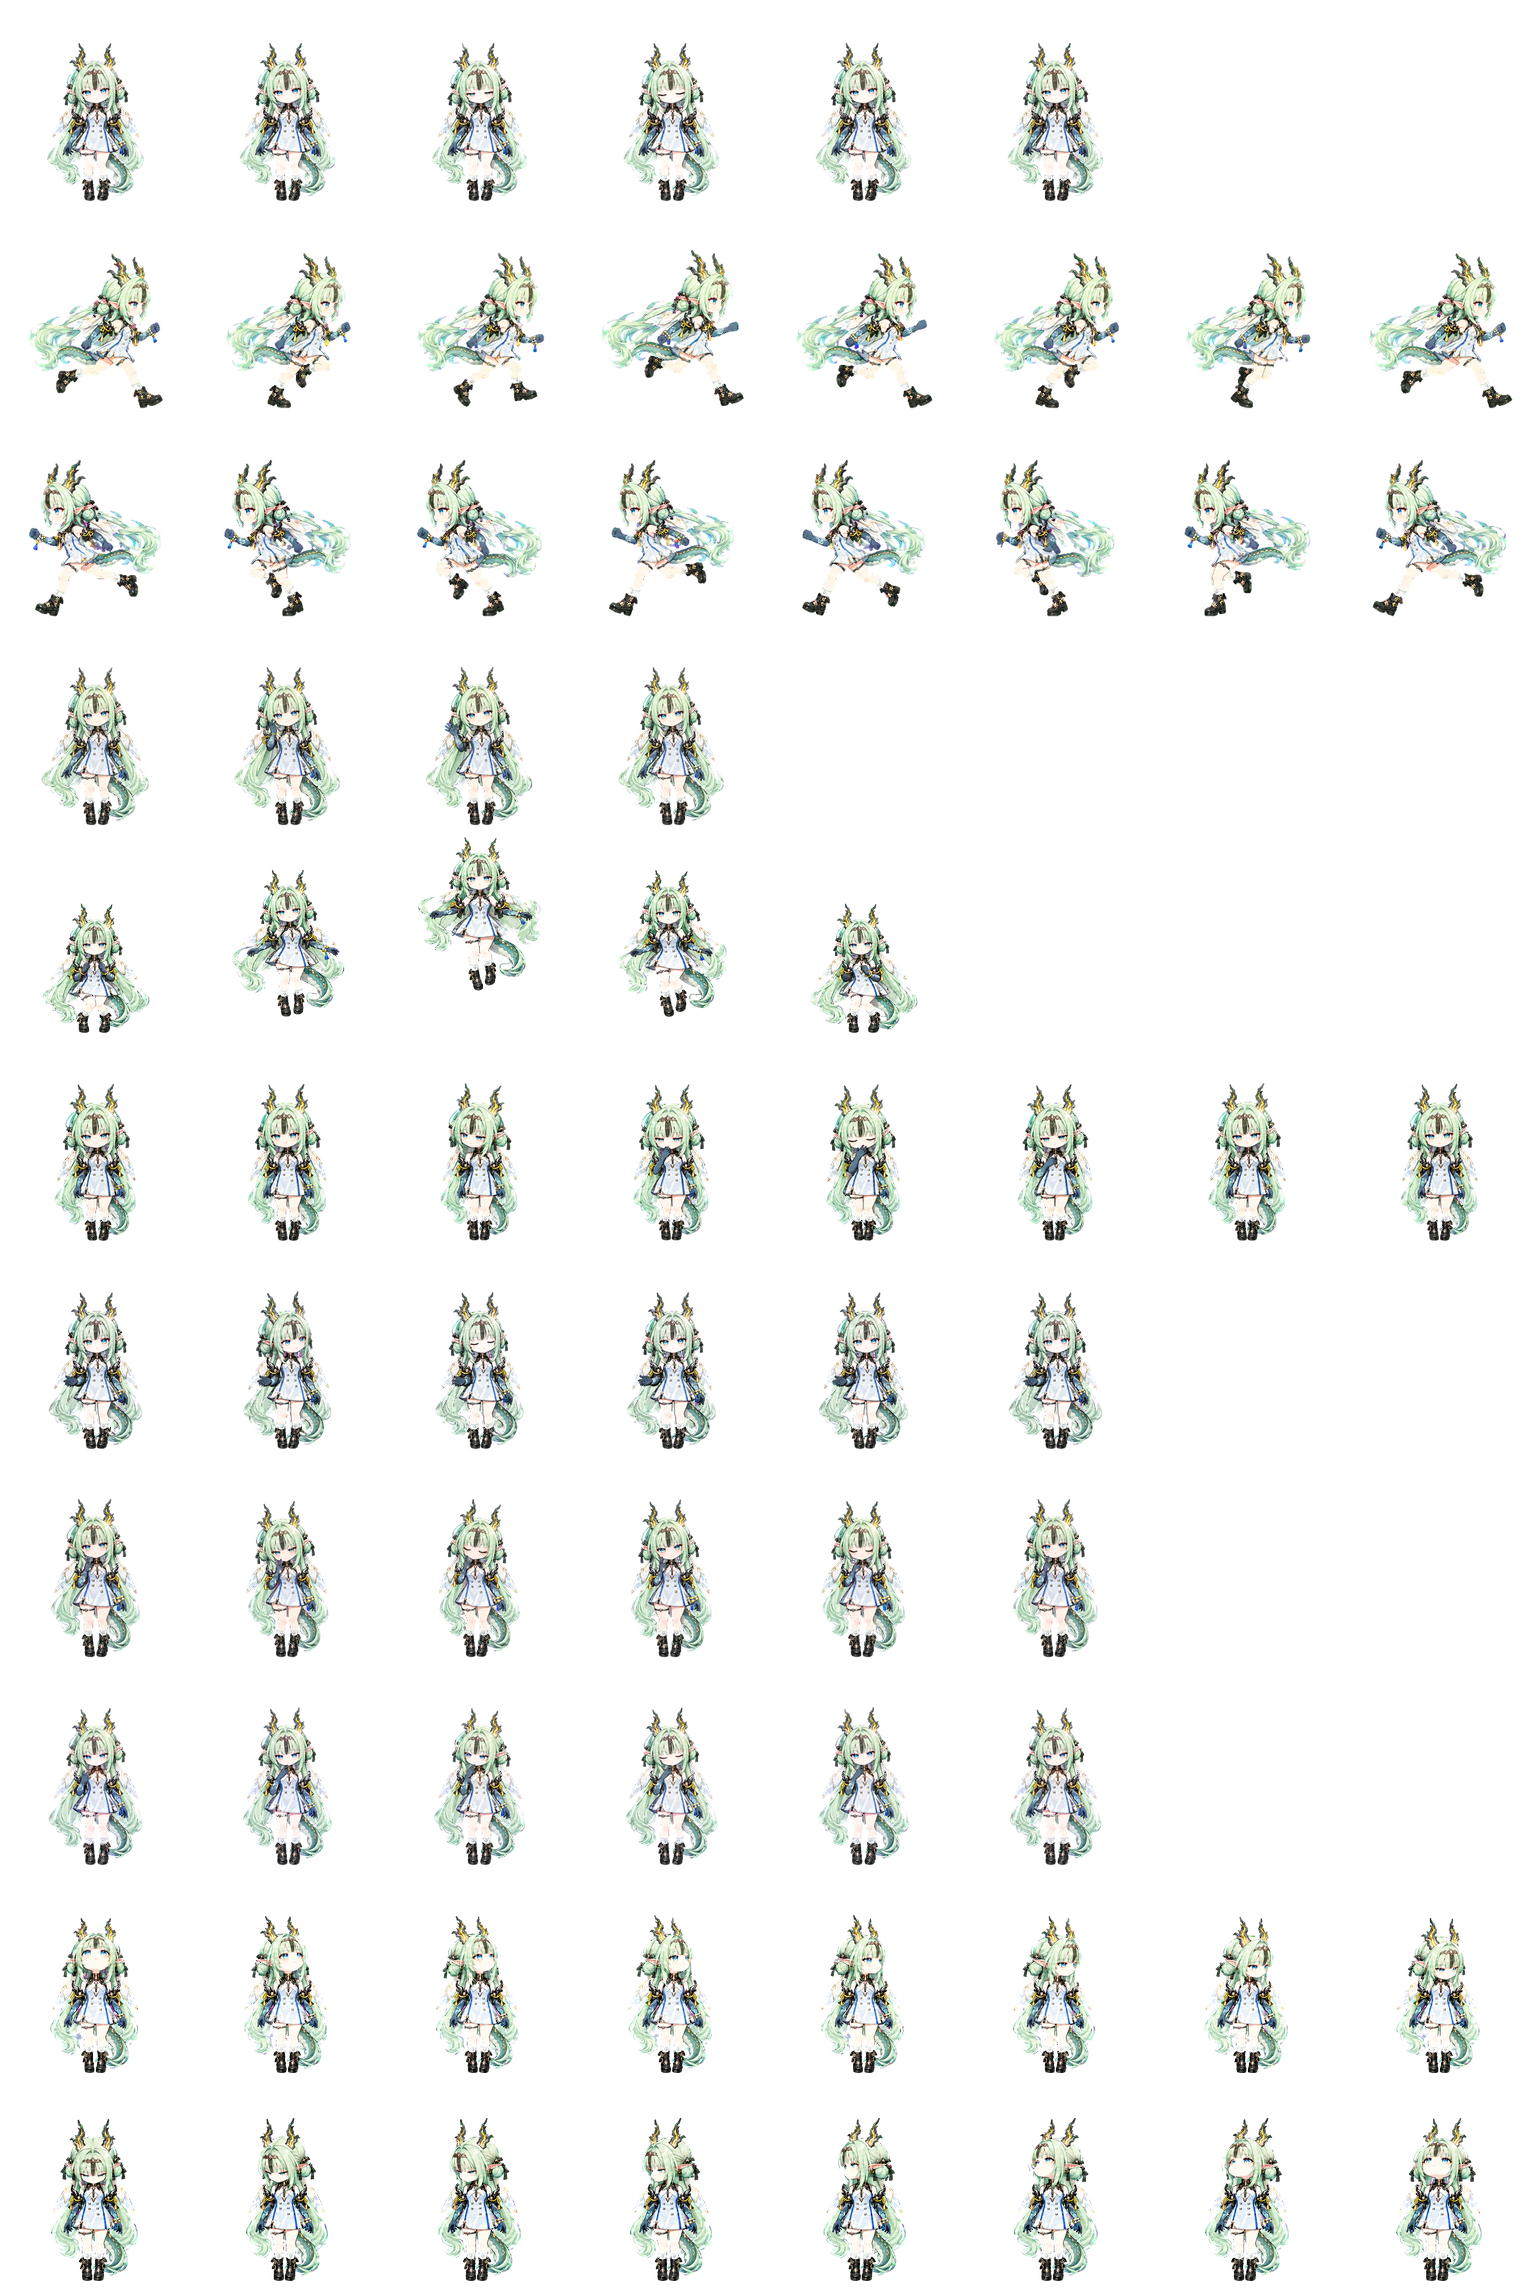
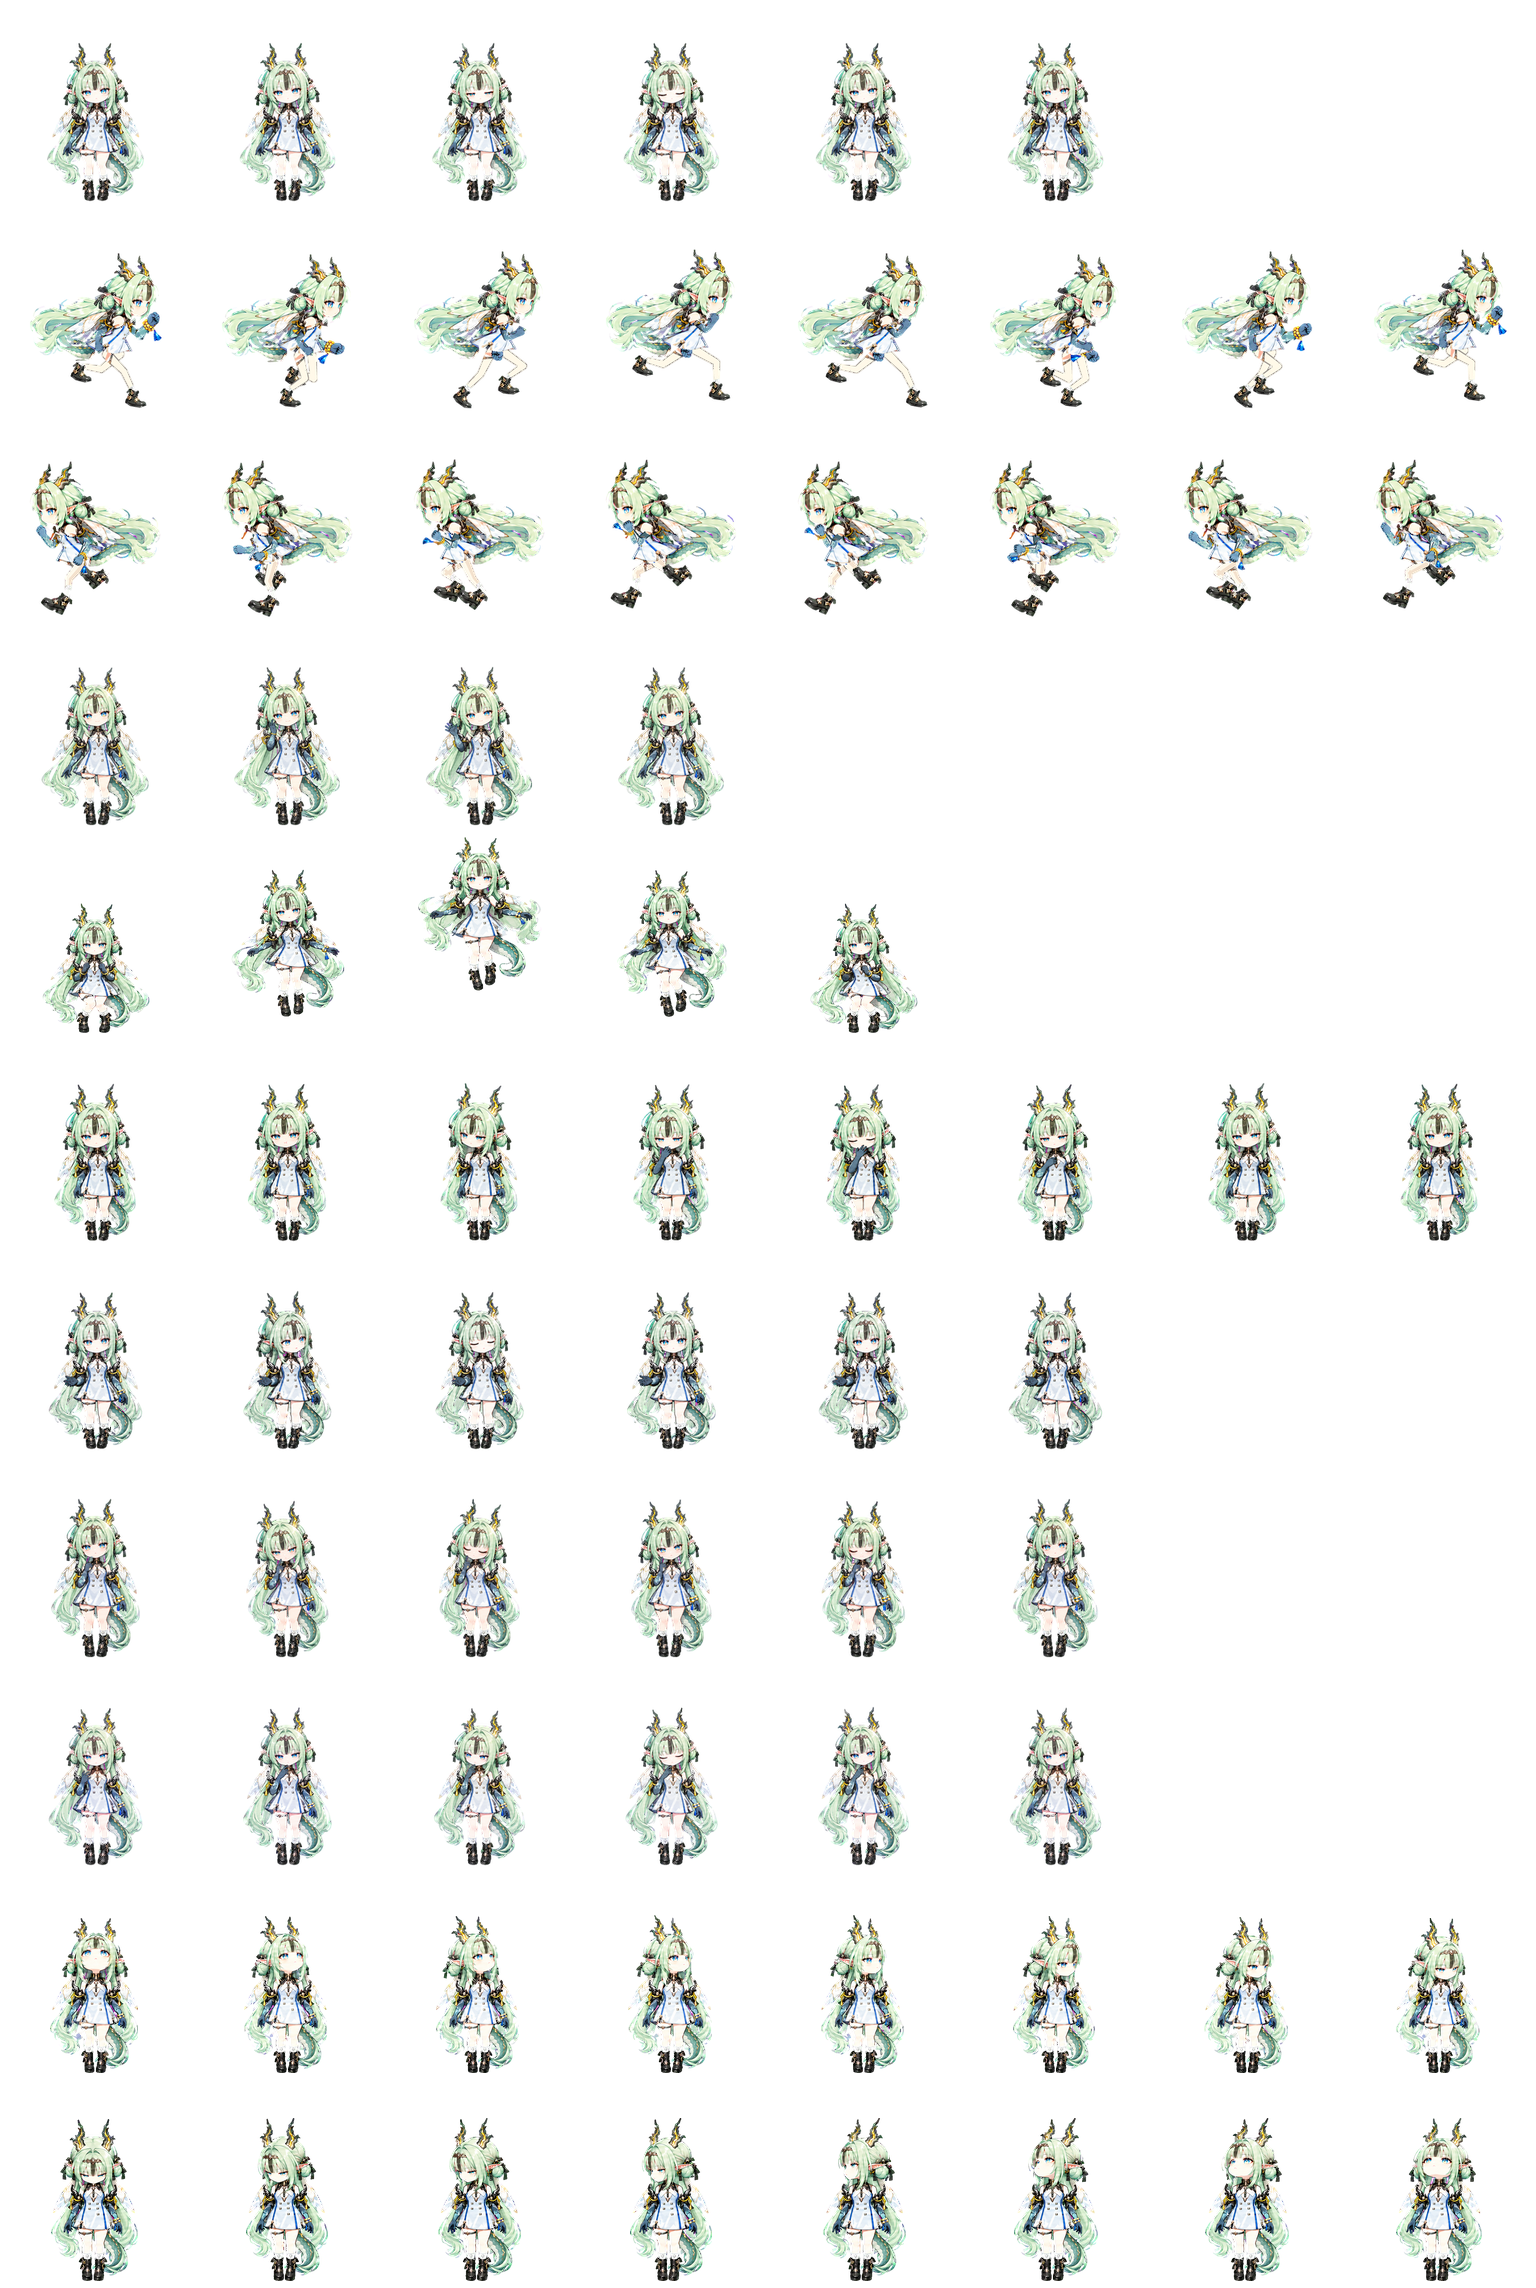
Repair Si running gait and refresh import previews

Changed region(s): [[0.0, 0.0931, 1.0, 0.2793]]

diff --git a/scripts/update_catalog.py b/scripts/update_catalog.py
@@ -152,9 +152,11 @@ def catalog(pets, *, chinese=False):
     lines = ["<!-- Generated by scripts/update_catalog.py; edit pets.json instead. -->",
              "", f"# {title}", "", "[English](CATALOG.md) | [简体中文](CATALOG.zh-CN.md)",
              "", intro]
-    preview_labels = ({"idle": "待机", "animations": "动作", "look": "视线", "contactSheet": "总览"}
+    preview_labels = ({"idle": "待机", "animations": "动作", "look": "视线", "contactSheet": "总览",
+                       "runningRight": "向右奔跑", "runningLeft": "向左奔跑"}
                       if chinese else
-                      {"idle": "Idle", "animations": "Animations", "look": "Gaze", "contactSheet": "Contact sheet"})
+                      {"idle": "Idle", "animations": "Animations", "look": "Gaze", "contactSheet": "Contact sheet",
+                       "runningRight": "Run right", "runningLeft": "Run left"})
     game_order = {game: index for index, game in enumerate(GAME_TITLES)}
     ordered = sorted(pets, key=lambda pet: (
         game_order.get(pet["game"], len(game_order)), pet["game"], pet["id"]))

diff --git a/docs/arknights-endfield-si.md b/docs/arknights-endfield-si.md
@@ -39,7 +39,7 @@ An unofficial *Arknights: Endfield* animated companion. Repository, package, fil
 | 动作 | 角色化表达 |
 | --- | --- |
 | 待机 | 平稳呼吸、一次自然眨眼、发尾和尾端轻微随动 |
-| 左右移动 | 独立绘制两侧奔跑，手臂与对应腿反向摆动、左右迈步交替，发尾与翼边小幅跟随；左腕珠串不换边 |
+| 左右移动 | 双向独立的八帧奔跑循环，加大迈步与摆臂幅度；手臂与对侧腿配合前摆，肘膝自然弯曲，左右腿真实交替；左腕珠串不换边 |
 | 挥手 | 空手小幅招呼，略带“总算来了”的得意神情 |
 | 跳跃 | 蓄力、离地、最高点、下降、落稳；保持身体大小与真实高度变化 |
 | 受挫 | 微微鼓脸或掩唇，短暂别开目光后恢复，避免持续发怒 |
@@ -67,3 +67,9 @@ An unofficial *Arknights: Endfield* animated companion. Repository, package, fil
 - [Codex 本地 v1 兼容包](../codex/arknights-endfield-si/)：前九行动作。
 - [codex-pets.net](https://codex-pets.net/#/pets/arknights-endfield-si)：完整 v2 角色包。
 - 导入说明：[English](../README.md) / [中文](../README.zh-CN.md)。公开分享链接见角色目录。
+
+Running previews: [Right](../previews/arknights-endfield-si-running-right.gif) / [Left](../previews/arknights-endfield-si-running-left.gif).
+
+Both directions use eight distinct poses with wider strides, opposing arm and leg motion, and continuous preview timing. The bracelet stays on her left wrist.
+
+奔跑预览：[向右](../previews/arknights-endfield-si-running-right.gif) / [向左](../previews/arknights-endfield-si-running-left.gif)。

diff --git a/CATALOG.md b/CATALOG.md
@@ -18,4 +18,4 @@ Grouped by game and generated from [pets.json](pets.json). See the [README](READ
 
 | Character | ID | Full PNG | Codex package | Character notes | Previews | codex-pets.net | Public share |
 | --- | --- | --- | --- | --- | --- | --- | --- |
-| Si / 祀 | `arknights-endfield-si` | [PNG](arknights-endfield-si.png) | [Package](codex/arknights-endfield-si/) | [Notes](docs/arknights-endfield-si.md) | [Idle](previews/arknights-endfield-si-idle.gif) · [Animations](previews/arknights-endfield-si-animations.gif) · [Gaze](previews/arknights-endfield-si-look.gif) · [Contact sheet](previews/arknights-endfield-si-contact-sheet.png) | [Website import](https://codex-pets.net/#/pets/arknights-endfield-si) · `arknights-endfield-si` | [Import link](https://chatgpt.com/s/sharepet_6ad949b3c0d08191ad1966c0765e2895) |
+| Si / 祀 | `arknights-endfield-si` | [PNG](arknights-endfield-si.png) | [Package](codex/arknights-endfield-si/) | [Notes](docs/arknights-endfield-si.md) | [Idle](previews/arknights-endfield-si-idle.gif) · [Animations](previews/arknights-endfield-si-animations.gif) · [Gaze](previews/arknights-endfield-si-look.gif) · [Contact sheet](previews/arknights-endfield-si-contact-sheet.png) · [Run right](previews/arknights-endfield-si-running-right.gif) · [Run left](previews/arknights-endfield-si-running-left.gif) | [Website import](https://codex-pets.net/#/pets/arknights-endfield-si) · `arknights-endfield-si` | [Import link](https://chatgpt.com/s/sharepet_6ad949b3c0d08191ad1966c0765e2895) |

diff --git a/CATALOG.zh-CN.md b/CATALOG.zh-CN.md
@@ -18,4 +18,4 @@
 
 | 角色 | ID | 完整 PNG | Codex 本地包 | 角色设定 | 预览 | codex-pets.net | 公开分享 |
 | --- | --- | --- | --- | --- | --- | --- | --- |
-| 祀 / Si | `arknights-endfield-si` | [PNG](arknights-endfield-si.png) | [本地包](codex/arknights-endfield-si/) | [设定](docs/arknights-endfield-si.md) | [待机](previews/arknights-endfield-si-idle.gif) · [动作](previews/arknights-endfield-si-animations.gif) · [视线](previews/arknights-endfield-si-look.gif) · [总览](previews/arknights-endfield-si-contact-sheet.png) | [网站导入](https://codex-pets.net/#/pets/arknights-endfield-si) · `arknights-endfield-si` | [导入链接](https://chatgpt.com/s/sharepet_6ad949b3c0d08191ad1966c0765e2895) |
+| 祀 / Si | `arknights-endfield-si` | [PNG](arknights-endfield-si.png) | [本地包](codex/arknights-endfield-si/) | [设定](docs/arknights-endfield-si.md) | [待机](previews/arknights-endfield-si-idle.gif) · [动作](previews/arknights-endfield-si-animations.gif) · [视线](previews/arknights-endfield-si-look.gif) · [总览](previews/arknights-endfield-si-contact-sheet.png) · [向右奔跑](previews/arknights-endfield-si-running-right.gif) · [向左奔跑](previews/arknights-endfield-si-running-left.gif) | [网站导入](https://codex-pets.net/#/pets/arknights-endfield-si) · `arknights-endfield-si` | [导入链接](https://chatgpt.com/s/sharepet_6ad949b3c0d08191ad1966c0765e2895) |

diff --git a/README.md b/README.md
@@ -82,6 +82,8 @@ The installer discovers packages in `codex/` automatically. It copies them to `$
     └── spritesheet.webp
 ```
 
+To update an existing local pet, download the latest package or update your repository checkout. Back up and move the existing `<CODEX_HOME>/pets/<character-id>/` directory outside the pets directory, then run the installer for that same ID again. The installer stops if the old directory is still present. The catalog links always identify the current published files and previews.
+
 After installation, use **Settings → Pets → Refresh** in a desktop client that provides these controls, or `/pets` in a compatible Codex CLI session. Local pets and web pets are managed separately. See the [official Pets documentation](https://learn.chatgpt.com/docs/pets).
 
 The local package layout follows OpenAI's [hatch-pet skill](https://github.com/openai/skills/blob/main/skills/.curated/hatch-pet/SKILL.md). Its v1 sheet preserves the first nine animation rows at 1536 × 1872 pixels; the additional sixteen look directions are in the full v2 PNG.

diff --git a/README.zh-CN.md b/README.zh-CN.md
@@ -81,6 +81,8 @@ Windows 上可按需将 `python3` 换成 `py -3`。使用 `--dest /path/to/pets`
     └── spritesheet.webp
 ```
 
+更新已有本地宠物时，先下载最新角色包或更新仓库副本。备份并将原来的 `<CODEX_HOME>/pets/<character-id>/` 整个目录移到宠物目录之外，再使用相同 ID 运行安装脚本；旧目录仍存在时，脚本会停止。角色目录中的链接始终指向当前发布的文件和预览。
+
 安装后，在提供此设置的桌面客户端打开 **Settings → Pets → Refresh**，或在兼容的 Codex CLI 会话中使用 `/pets` 选择角色。本地宠物与网页宠物分别管理，详见 [OpenAI Pets 文档](https://learn.chatgpt.com/docs/pets)。
 
 本地包结构依据 [OpenAI hatch-pet 技能](https://github.com/openai/skills/blob/main/skills/.curated/hatch-pet/SKILL.md)。v1 图集以 1536 × 1872 保留前九行动作，额外的十六方向视线位于完整 v2 PNG 中。
